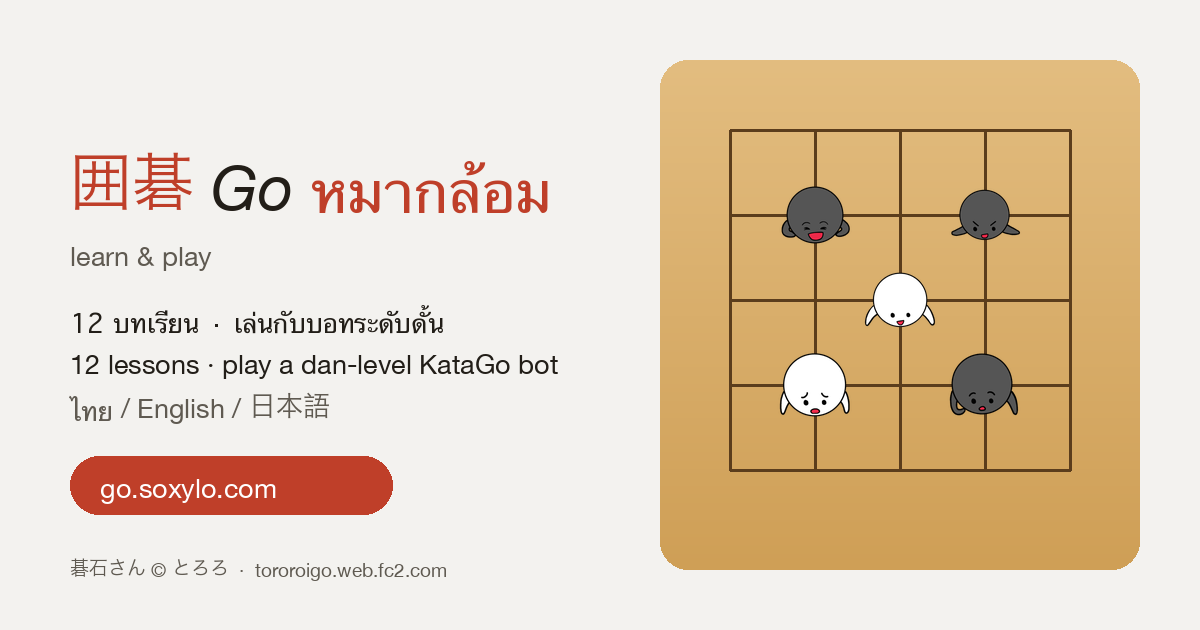
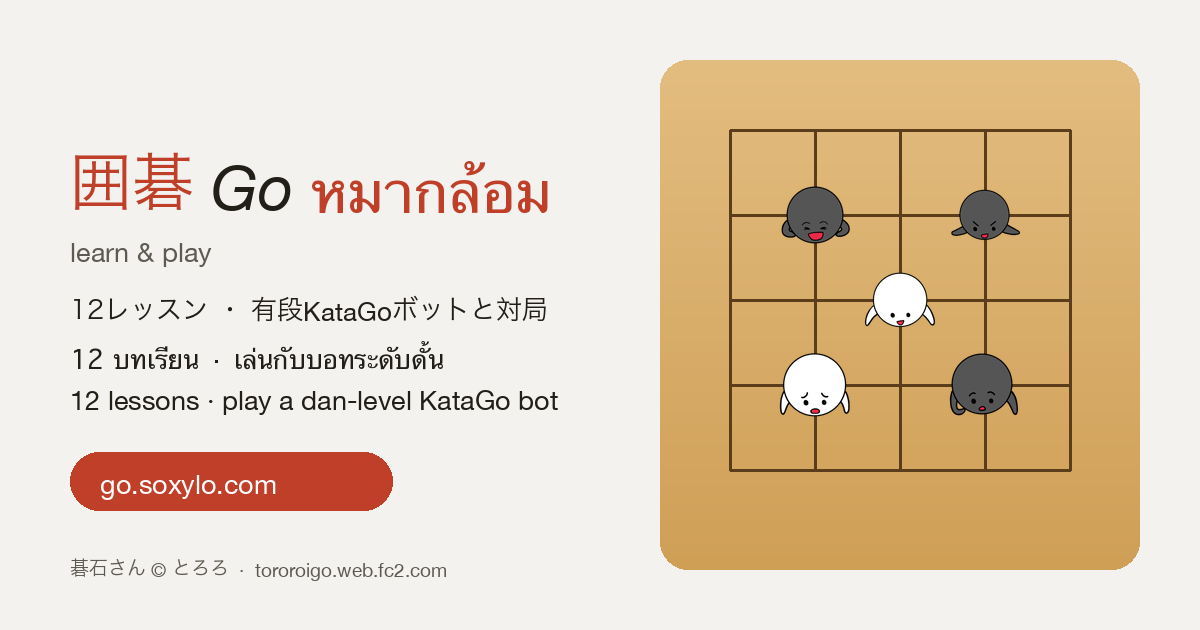
OG card: add the Japanese description line, v1.19.1
The card listed languages ('ไทย / English / 日本語') but described the app
only in Thai and English — the audience it is about to reach reads
Japanese. Replaced the language list with one description line per
language (Japanese first), which shows the trilingual support rather
than claiming it. Bumped the og:image query so X and friends refetch the
card instead of serving the previous one from their cache.

diff --git a/index.html b/index.html
@@ -15,7 +15,7 @@
   <meta property="og:site_name" content="囲碁 · Go · หมากล้อม">
   <meta property="og:title" content="囲碁 · Go · หมากล้อม — learn &amp; play">
   <meta property="og:description" content="ブラウザで囲碁を学んで打てる無料アプリ。12レッスン、4段階のボット（有段KataGo対応）、日本語・ไทย・English。インストール不要。">
-  <meta property="og:image" content="https://go.soxylo.com/assets/og.png?v=1.19.0">
+  <meta property="og:image" content="https://go.soxylo.com/assets/og.png?v=1.19.1">
   <meta property="og:image:width" content="1200">
   <meta property="og:image:height" content="630">
   <meta property="og:image:alt" content="碁石さん stones on a Go board — 囲碁 · Go · หมากล้อม, go.soxylo.com">
@@ -25,8 +25,8 @@
   <meta name="twitter:card" content="summary_large_image">
   <meta name="twitter:title" content="囲碁 · Go · หมากล้อม — learn &amp; play">
   <meta name="twitter:description" content="ブラウザで囲碁を学んで打てる無料アプリ。12レッスン、4段階のボット、日本語対応。インストール不要。">
-  <meta name="twitter:image" content="https://go.soxylo.com/assets/og.png?v=1.19.0">
-  <link rel="stylesheet" href="styles.css?v=1.19.0">
+  <meta name="twitter:image" content="https://go.soxylo.com/assets/og.png?v=1.19.1">
+  <link rel="stylesheet" href="styles.css?v=1.19.1">
 </head>
 <body>
   <div class="wrap">
@@ -175,8 +175,8 @@
   </dialog>
 
   <!-- ?v= cache-busts on each release; bump together with VERSION in ui.js / worker.js -->
-  <script src="engine.js?v=1.19.0"></script>
-  <script src="lessons.js?v=1.19.0"></script>
-  <script src="ui.js?v=1.19.0"></script>
+  <script src="engine.js?v=1.19.1"></script>
+  <script src="lessons.js?v=1.19.1"></script>
+  <script src="ui.js?v=1.19.1"></script>
 </body>
 </html>

diff --git a/ui.js b/ui.js
@@ -7,9 +7,10 @@
   'use strict';
   var E = window.GoEngine, LESSONS = window.GoLessons;
   var BLACK = E.BLACK, WHITE = E.WHITE, EMPTY = E.EMPTY;
-  var VERSION = '1.19.0';
+  var VERSION = '1.19.1';
   // shown in the in-app "version history" dialog (newest first)
   var CHANGELOG = [
+    { v: '1.19.1', th: 'การ์ดพรีวิวลิงก์มีคำอธิบายภาษาญี่ปุ่นด้วย', en: 'Link-preview card now reads in Japanese too', ja: 'リンクプレビュー画像に日本語の説明を追加' },
     { v: '1.19.0', th: 'เปิดแอปเป็นภาษาของเบราว์เซอร์อัตโนมัติ · ใช้ 囲碁 แทน 围棋 · การ์ดพรีวิวลิงก์', en: 'Auto-picks your browser language · 囲碁 instead of 围棋 · link-preview card', ja: 'ブラウザの言語で自動表示 · 表記を囲碁に統一 · リンクプレビュー画像を追加' },
     { v: '1.18.5', th: 'บทบันไดใช้ผัง l5_3 ของ とろろ เป๊ะ + รูปหน้า 1 แขนสั้น + แก้ CSP', en: 'Ladder uses とろろ\'s exact l5_3 board + short-arm face 1 + CSP fixes', ja: 'シチョウをとろろ様のl5_3の配石に + 表情1を差し替え + CSP修正' },
     { v: '1.18.4', th: 'บทบันไดเห็นขั้นบันไดจนชนขอบจริง + แก้คำอธิบายบทสแนปแบ็ก (ญี่ปุ่น)', en: 'Ladder lesson now shows the full staircase to the edge + clearer snapback wording', ja: 'シチョウのレッスンを端まで続く階段の形に + ウッテガエシの説明文を修正' },

diff --git a/styles.css b/styles.css
@@ -183,10 +183,10 @@ footer a { color: var(--accent); text-decoration: none; }
    ?v= cache-busts when the guide art changes (these filenames are reused); bump with VERSION. */
 .mascot-row { display: flex; align-items: center; gap: 10px; margin-bottom: 14px; }
 .mascot { width: 62px; height: 46px; flex: none; background: center/contain no-repeat; }
-.mascot[data-state="idle"]  { background-image: url(assets/mascot/idle.png?v=1.19.0); }
-.mascot[data-state="happy"] { background-image: url(assets/mascot/happy.png?v=1.19.0); }
-.mascot[data-state="think"] { background-image: url(assets/mascot/think.png?v=1.19.0); }
-.mascot[data-state="oops"]  { background-image: url(assets/mascot/oops.png?v=1.19.0); }
+.mascot[data-state="idle"]  { background-image: url(assets/mascot/idle.png?v=1.19.1); }
+.mascot[data-state="happy"] { background-image: url(assets/mascot/happy.png?v=1.19.1); }
+.mascot[data-state="think"] { background-image: url(assets/mascot/think.png?v=1.19.1); }
+.mascot[data-state="oops"]  { background-image: url(assets/mascot/oops.png?v=1.19.1); }
 .mascot-msg { font-size: 13.5px; color: var(--ink); margin: 0; min-height: 18px; font-weight: 500; }
 
 @media (prefers-reduced-motion: reduce) {

diff --git a/worker.js b/worker.js
@@ -7,7 +7,7 @@
  * run KataGo nets in neural-worker.js — see kataModel() in ui.js.
  */
 /* global GoEngine, importScripts, postMessage, onmessage */
-importScripts('engine.js?v=1.19.0'); // keep in sync with VERSION (cache-bust)
+importScripts('engine.js?v=1.19.1'); // keep in sync with VERSION (cache-bust)
 var E = GoEngine, EMPTY = E.EMPTY;
 
 function isEye(g, i, color) {

diff --git a/tools/make-og.py b/tools/make-og.py
@@ -68,16 +68,18 @@ for cx, cy, colour, face in [(1, 1, 'black', 13), (2, 2, 'white', 11),
 run(d, 70, 150, [('囲碁', font(CJK, 62), ACCENT),
                  (' Go ', font(LAT, 62, 2), INK),
                  ('หมากล้อม', font(THAI, 58), ACCENT)])
-d.text((70, 240), 'learn & play', font=font(LAT, 27), fill=SOFT)
+d.text((70, 236), 'learn & play', font=font(LAT, 27), fill=SOFT)
 
-d.text((70, 304), '12 บทเรียน · เล่นกับบอทระดับดั้น', font=font(THAI, 26), fill=INK)
-d.text((70, 348), '12 lessons · play a dan-level KataGo bot', font=font(LAT, 27), fill=INK)
-run(d, 70, 392, [('ไทย', font(THAI, 26), SOFT),
-                 (' / English / ', font(LAT, 27), SOFT),
-                 ('日本語', font(CJK, 27), SOFT)])
+# one line per supported language — that says "trilingual" better than a list would.
+# Japanese first: the artist is introducing the app to a Japanese audience.
+run(d, 70, 296, [('12レッスン · 有段', font(CJK, 26), INK),
+                 ('KataGo', font(LAT, 26), INK),
+                 ('ボットと対局', font(CJK, 26), INK)])
+d.text((70, 340), '12 บทเรียน · เล่นกับบอทระดับดั้น', font=font(THAI, 26), fill=INK)
+d.text((70, 384), '12 lessons · play a dan-level KataGo bot', font=font(LAT, 27), fill=INK)
 
-d.rounded_rectangle([70, 456, 392, 514], 29, fill=ACCENT)
-d.text((100, 472), 'go.soxylo.com', font=font(LAT, 27), fill=(255, 255, 255))
+d.rounded_rectangle([70, 452, 392, 510], 29, fill=ACCENT)
+d.text((100, 468), 'go.soxylo.com', font=font(LAT, 27), fill=(255, 255, 255))
 
 run(d, 70, 558, [('碁石さん', font(CJK, 19), SOFT),
                  (' © ', font(LAT, 19), SOFT),
